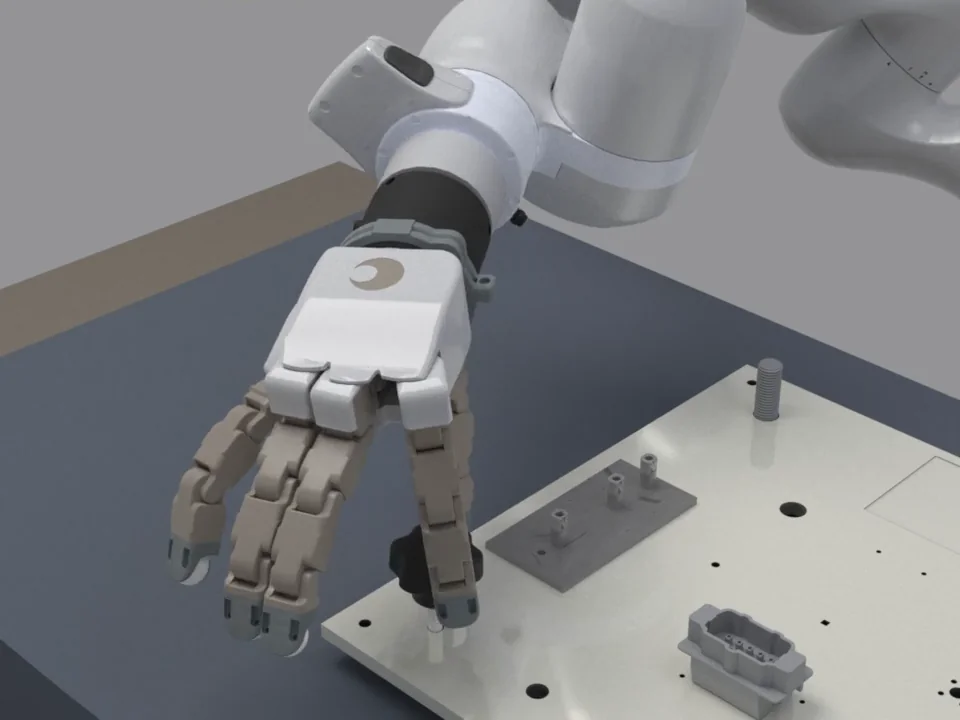
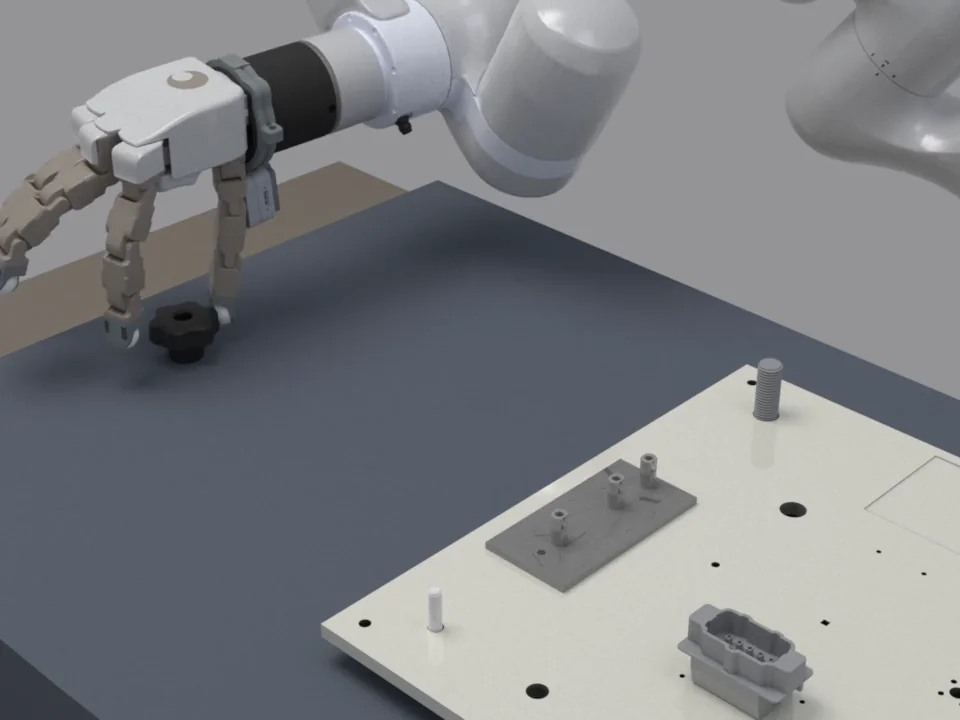
Use distinct precision keyframes and cache-versioned direct image playback

diff --git a/index.html b/index.html
@@ -257,8 +257,8 @@ footer p{margin:0 0 6px;max-width:80ch}
 }
 @media (prefers-reduced-motion: reduce){ html{scroll-behavior:auto} }
 </style>
-<link rel="stylesheet" href="assets/hero/hero.css">
-<script defer src="assets/hero/hero.js"></script>
+<link rel="stylesheet" href="assets/hero/hero.css?v=keyframes-3">
+<script defer src="assets/hero/hero.js?v=keyframes-3"></script>
 </head>
 <body>
 <nav class="nav" aria-label="Sections"><div class="nav__in">
@@ -269,30 +269,30 @@ footer p{margin:0 0 6px;max-width:80ch}
   </div>
 </div></nav>
   <header class="hero" id="top">
-    <div class="hero__media" role="group" aria-label="Human-to-robot demonstration slideshows">
+    <div class="hero__media" data-version="keyframes-3" role="group" aria-label="Human-to-robot demonstration slideshows">
       <button class="hero__collection" type="button" aria-label="223k human-robot demonstrations, 3.3k geometries. Show details." aria-pressed="false">
         <span class="hero__tile hero__tile--hot3d" data-slides="dino-human">
-          <img class="hero__slide is-current" src="assets/hero/stills/dino-human-1.webp" width="512" height="512" alt="Human demonstration: grasping a toy dinosaur" decoding="async">
+          <img class="hero__slide is-current" src="assets/hero/stills/dino-human-1.webp?v=keyframes-3" width="512" height="512" alt="Human demonstration: grasping a toy dinosaur" decoding="async">
         </span>
         <span class="hero__tile hero__tile--hot3d" data-slides="dino-robot">
-          <img class="hero__slide is-current" src="assets/hero/stills/dino-robot-1.webp" width="512" height="512" alt="Robot retargeting: grasping a toy dinosaur" decoding="async">
+          <img class="hero__slide is-current" src="assets/hero/stills/dino-robot-1.webp?v=keyframes-3" width="512" height="512" alt="Robot retargeting: grasping a toy dinosaur" decoding="async">
         </span>
         <span class="hero__tile hero__tile--hot3d" data-slides="coffee-human">
-          <img class="hero__slide is-current" src="assets/hero/stills/coffee-human-1.webp" width="512" height="512" alt="Human demonstration: lifting a coffee pot" decoding="async">
+          <img class="hero__slide is-current" src="assets/hero/stills/coffee-human-1.webp?v=keyframes-3" width="512" height="512" alt="Human demonstration: lifting a coffee pot" decoding="async">
         </span>
         <span class="hero__tile hero__tile--hot3d" data-slides="coffee-robot">
-          <img class="hero__slide is-current" src="assets/hero/stills/coffee-robot-1.webp" width="488" height="488" alt="Robot retargeting: lifting a coffee pot" decoding="async">
+          <img class="hero__slide is-current" src="assets/hero/stills/coffee-robot-1.webp?v=keyframes-3" width="488" height="488" alt="Robot retargeting: lifting a coffee pot" decoding="async">
         </span>
         <span class="hero__corners" aria-hidden="true"></span>
         <span class="hero__caption" aria-hidden="true"><span class="hero__metrics"><span><b>223k</b> human-robot demonstrations</span><span><b>3.3k</b> geometries</span></span></span>
       </button>
-      <button class="hero__tile hero__tile--nist" type="button" data-slides="nist" aria-label="less than 1 millimeter precision, 29 second horizon. Show task details." aria-pressed="false">
-        <img class="hero__slide is-current" src="assets/hero/stills/nist-1.webp" width="960" height="720" alt="Precision assembly: the robot aligns a knob with a threaded post" decoding="async">
+      <button class="hero__tile hero__tile--nist" type="button" data-slides="nist" data-frame-count="6" aria-label="less than 1 millimeter precision, 29 second horizon. Show task details." aria-pressed="false">
+        <img class="hero__slide is-current" src="assets/hero/stills/nist-1.webp?v=keyframes-3" width="960" height="720" alt="Precision assembly: the robot aligns a knob with a threaded post" decoding="async">
         <span class="hero__corners" aria-hidden="true"></span>
         <span class="hero__caption" aria-hidden="true"><span class="hero__metrics"><span><b>&lt;1 mm</b> precision</span><span><b>29 s</b> horizon</span></span></span>
       </button>
-      <button class="hero__tile hero__tile--shapefilter" type="button" data-slides="shapefilter" aria-label="1.96 millimeter precision, 11 second horizon. Show task details." aria-pressed="false">
-        <img class="hero__slide is-current" src="assets/hero/stills/shapefilter-1.webp" width="640" height="480" alt="Shape insertion: the robot aligns a cross-shaped part with a matching hole" decoding="async">
+      <button class="hero__tile hero__tile--shapefilter" type="button" data-slides="shapefilter" data-frame-count="6" aria-label="1.96 millimeter precision, 11 second horizon. Show task details." aria-pressed="false">
+        <img class="hero__slide is-current" src="assets/hero/stills/shapefilter-1.webp?v=keyframes-3" width="640" height="480" alt="Shape insertion: the robot aligns a cross-shaped part with a matching hole" decoding="async">
         <span class="hero__corners" aria-hidden="true"></span>
         <span class="hero__caption" aria-hidden="true"><span class="hero__metrics"><span><b>1.96 mm</b> precision</span><span><b>11 s</b> horizon</span></span></span>
       </button>

diff --git a/assets/hero/hero.js b/assets/hero/hero.js
@@ -1,44 +1,36 @@
-/* Static images advance together every second, including during hover.
-   Decode the next frame in advance so network latency does not set the cadence. */
+/* Predecode real still-image keyframes, then swap the visible image every second.
+   One image per tile avoids layered-image and stale-style rendering problems. */
 (function () {
   'use strict';
   var hero = document.querySelector('.hero');
+  var media = document.querySelector('.hero__media');
   var tiles = Array.from(document.querySelectorAll('.hero__tile'));
   var details = Array.from(document.querySelectorAll('.hero__media button'));
-  if (!hero || !tiles.length) return;
-  var visible = true, loading = false;
-  function prepare(state) {
-    var next = state.images[1 - state.front];
-    next.src = 'assets/hero/stills/' + state.tile.dataset.slides + '-' + ((state.frame + 1) % 4 + 1) + '.webp';
-    return next.decode().then(function () { return true; }, function () { return false; });
-  }
+  if (!hero || !media || !tiles.length) return;
+  var visible = true;
   var states = tiles.map(function (tile) {
-    var first = tile.querySelector('img');
-    var second = document.createElement('img');
-    second.className = 'hero__slide'; second.alt = ''; second.setAttribute('aria-hidden', 'true'); second.decoding = 'async';
-    second.width = first.width; second.height = first.height;
-    tile.insertBefore(second, first.nextSibling);
+    var image = tile.querySelector('img');
+    var count = Number(tile.dataset.frameCount) || 4;
+    var frames = Array.from({length: count}, function (_, i) {
+      var preloaded = new Image();
+      var frame = {image: preloaded, ready: false};
+      preloaded.src = 'assets/hero/stills/' + tile.dataset.slides + '-' + (i + 1) + '.webp?v=' + media.dataset.version;
+      // Each tile loads independently; one slow image cannot freeze the whole grid.
+      preloaded.decode().then(function () { frame.ready = true; }, function () {});
+      return frame;
+    });
     tile.dataset.frame = '1';
-    var state = {tile: tile, images: [first, second], front: 0, frame: 0};
-    state.ready = prepare(state);
-    return state;
+    return {tile: tile, image: image, frames: frames, frame: 0};
   });
-  function canPlay() { return visible && !document.hidden; }
-  async function advance() {
-    if (!canPlay() || loading) return;
-    loading = true;
-    await Promise.all(states.map(async function (state) {
-      if (!await state.ready) { state.ready = prepare(state); return; }
-      if (!canPlay()) return;
-      var current = state.images[state.front], next = state.images[1 - state.front];
-      current.classList.remove('is-current'); next.classList.add('is-current');
-      next.alt = current.alt; next.removeAttribute('aria-hidden'); current.setAttribute('aria-hidden', 'true');
-      state.front = 1 - state.front; state.frame = (state.frame + 1) % 4;
-      state.tile.dataset.frame = String(state.frame + 1);
-      // Let the short crossfade finish before replacing the hidden image.
-      state.ready = new Promise(function (resolve) { setTimeout(resolve, 250); }).then(function () { return prepare(state); });
-    }));
-    loading = false;
+  function advance() {
+    if (!visible || document.hidden) return;
+    states.forEach(function (state) {
+      var next = (state.frame + 1) % state.frames.length;
+      if (!state.frames[next].ready) return;
+      state.image.src = state.frames[next].image.src;
+      state.frame = next;
+      state.tile.dataset.frame = String(next + 1);
+    });
   }
   function closeDetails() { details.forEach(function (el) { el.classList.remove('is-open'); el.setAttribute('aria-pressed', 'false'); }); }
   details.forEach(function (el) {

diff --git a/scripts/build_hero_stills.py b/scripts/build_hero_stills.py
@@ -1,4 +1,4 @@
-"""Export four static WebP slides per hero tile from local research demos.
+"""Export selected static WebP keyframes per hero tile from local research demos.
 
 Usage: python3 scripts/build_hero_stills.py /path/to/paper-workspace
 Requires FFmpeg. Only still images are written to the public site.
@@ -12,12 +12,17 @@ from pathlib import Path
 SOURCES = {
     'dino-human': ('demos/appendix/hot3d/replacements_v1/dino_carry/egocentric.mp4', [0.6, 1.8, 3.2, 4.8], None),
     'dino-robot': ('demos/appendix/hot3d/replacements_v1/dino_carry/gnr.mp4', [1.6, 2.8, 4.2, 5.8], None),
-    'nist': ('demos/latest/nist/episode_25/gnr_mpc.mp4', [8, 12, 17, 22], 'crop=960:720:0:720'),
+    'nist': ('demos/latest/nist/episode_25/gnr_mpc.mp4', [4, 6, 10, 12, 14, 23], 'crop=960:720:0:720'),
     'coffee-human': ('demos/appendix/hot3d/pi31_final_v1/coffee_pot_lift/egocentric.mp4', [0.6, 1.8, 3.2, 4.8], None),
     'coffee-robot': ('demos/appendix/hot3d/pi31_final_v1/coffee_pot_lift/gnr_coffee_occ.mp4', [0.3, 1, 1.8, 2.8], None),
-    'shapefilter': ('demos/latest/shapefilter/episode_124/gnr_mpc.mp4', [4, 6, 8, 10], None),
+    'shapefilter': ('demos/latest/shapefilter/episode_124/gnr_mpc.mp4', [5, 7, 8, 9, 10, 11], None),
 }
 
+
+STAGES = {
+    'nist': ['grasp', 'lift and transport', 'seat', 'rotate', 'rotate', 'release'],
+    'shapefilter': ['grasp', 'lift', 'align', 'begin insertion', 'insert', 'release'],
+}
 
 def main():
     parser = argparse.ArgumentParser(description=__doc__)
@@ -36,6 +41,8 @@ def main():
             subprocess.run(command + ['-c:v', 'libwebp', '-quality', '85', '-compression_level', '6', '-map_metadata', '-1', str(target)], check=True)
             files.append(target.name)
         manifest[name] = {'source': source, 'seconds': times, 'crop': crop, 'files': files}
+        if name in STAGES:
+            manifest[name]['stages'] = STAGES[name]
     (out / 'sources.json').write_text(json.dumps(manifest, indent=2) + '\n')
     images = list(out.glob('*.webp'))
     print(f'{len(images)} stills, {sum(p.stat().st_size for p in images) / 1024:.0f} KiB total')

diff --git a/README.md b/README.md
@@ -4,8 +4,10 @@ Project page for **Generative Neural Retargeting for Human-to-Robot Dexterous Ma
 
 This repository hosts the public preview of the site. Open `index.html` locally, or serve it with GitHub Pages (Settings → Pages → Deploy from a branch → `main` / root).
 
-The opening grid uses only static WebP images: four frames per tile, advancing automatically every second, including during hover or focus. The four human/robot panels share one dataset caption; the two precision demos each show their precision and duration. Hover, keyboard focus, or tap reveals the metrics. There are no playback controls or progress bars. Frame changes continue with reduced motion enabled, but decorative transitions are disabled. The slideshow pauses while the page is hidden or the hero leaves view.
+The opening grid uses only static WebP images, advancing automatically every second, including during hover or focus. Each human/robot tile has four frames; each precision demo has six deliberately selected keyframes. The four human/robot panels share one dataset caption; the two precision demos each show their precision and duration. Hover, keyboard focus, or tap reveals the metrics. There are no playback controls or progress bars. Frame changes continue with reduced motion enabled, but decorative transitions are disabled. The slideshow pauses while the page is hidden or the hero leaves view.
 
-All 24 stills total about 305 KiB; the six initial frames total about 74 KiB. The next frame is decoded ahead of each change. NIST uses a native 960 × 720 crop of the robot view; ShapeFilter uses the original 640 × 480 frames without upscaling. No videos are served or fetched.
+The small still-image sequences are predecoded so playback does not wait for a new network request each second. The displayed image is swapped directly. Scripts, styles, and images share a cache version in `index.html` so refreshing the page fetches matching assets. NIST uses a native 960 × 720 crop of the robot view; ShapeFilter uses original 640 × 480 frames without upscaling. No videos are served or fetched.
+
+NIST keyframes cover grasping, transport, seating, rotation, and release (4, 6, 10, 12, 14, 23 seconds). ShapeFilter keyframes cover grasping, lifting, alignment, insertion, and release (5–11 seconds, excluding 6). Source timestamps and stage labels are recorded in the still-image manifest.
 
 To regenerate the stills from the original research demo files, install FFmpeg and run `python3 scripts/build_hero_stills.py /path/to/paper-workspace`. The source timestamps and crops are recorded in `assets/hero/stills/sources.json`; original videos stay outside this repository.
